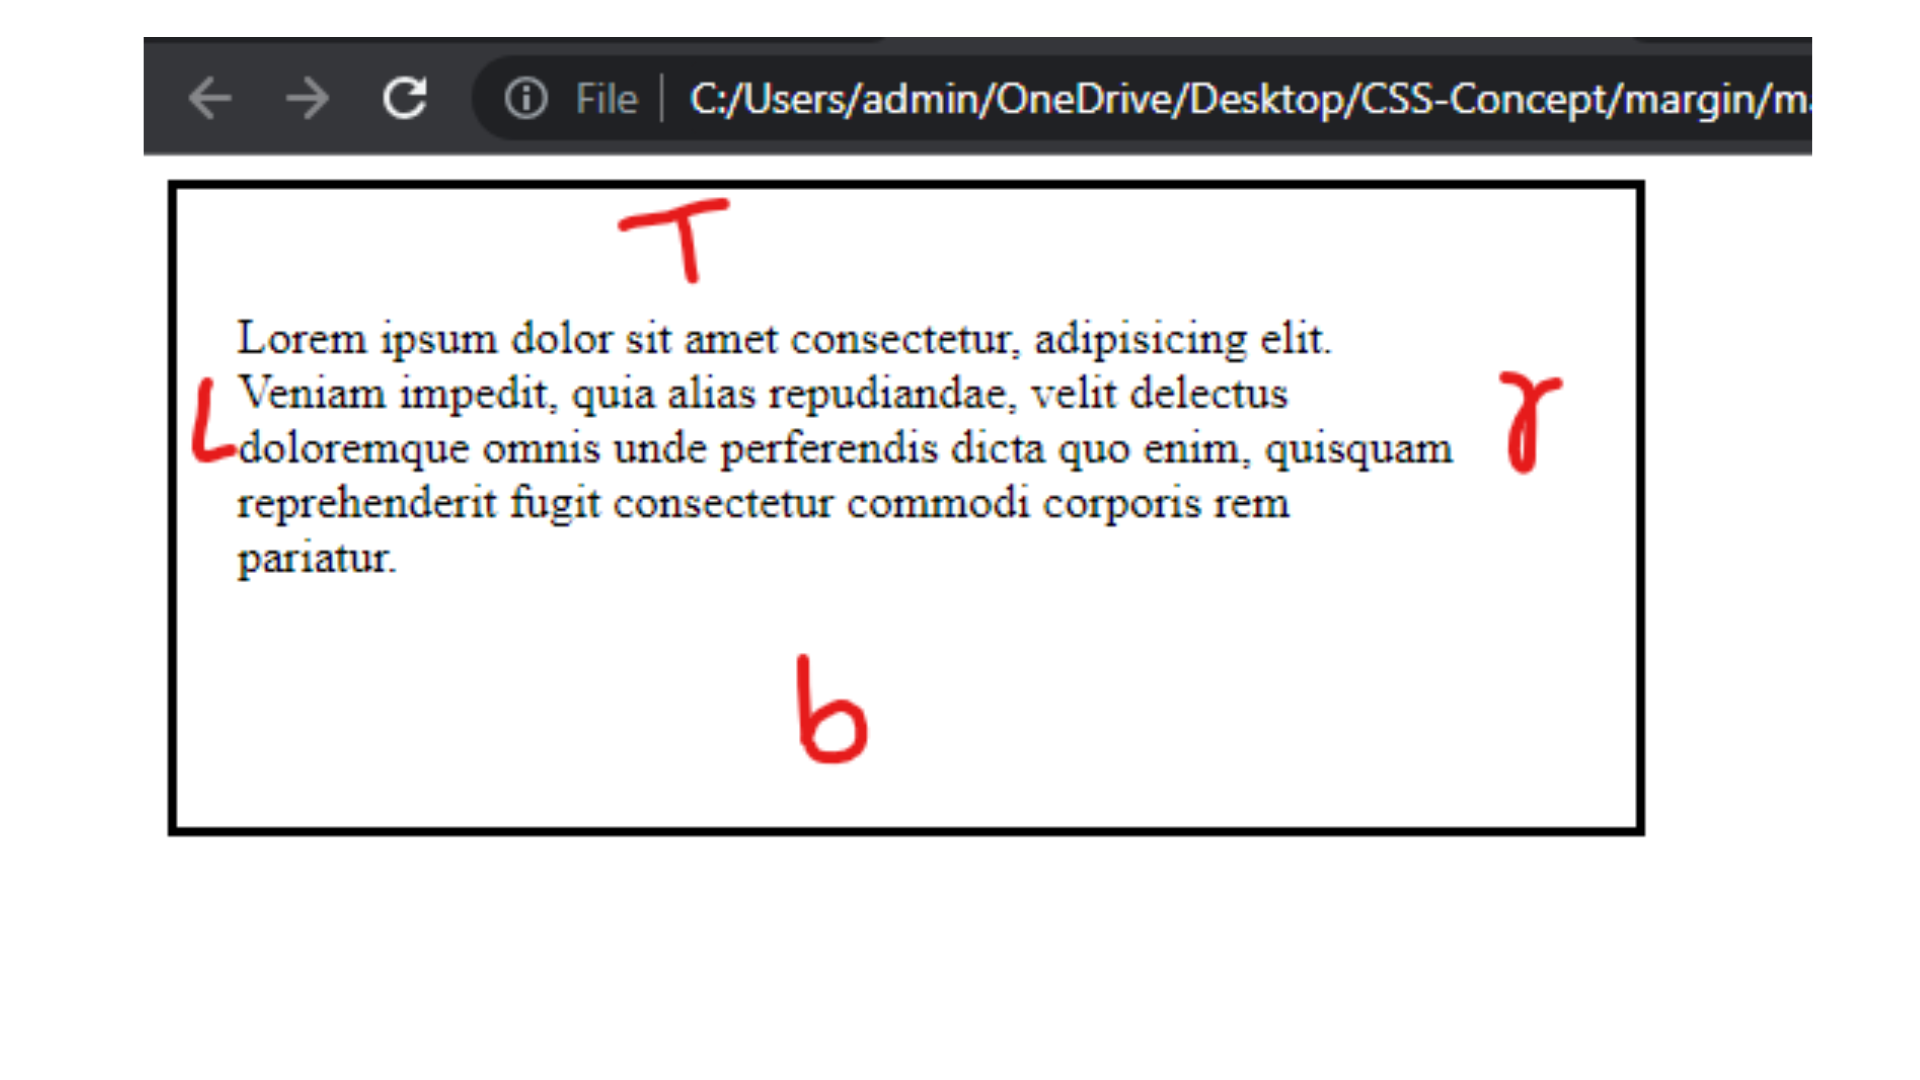
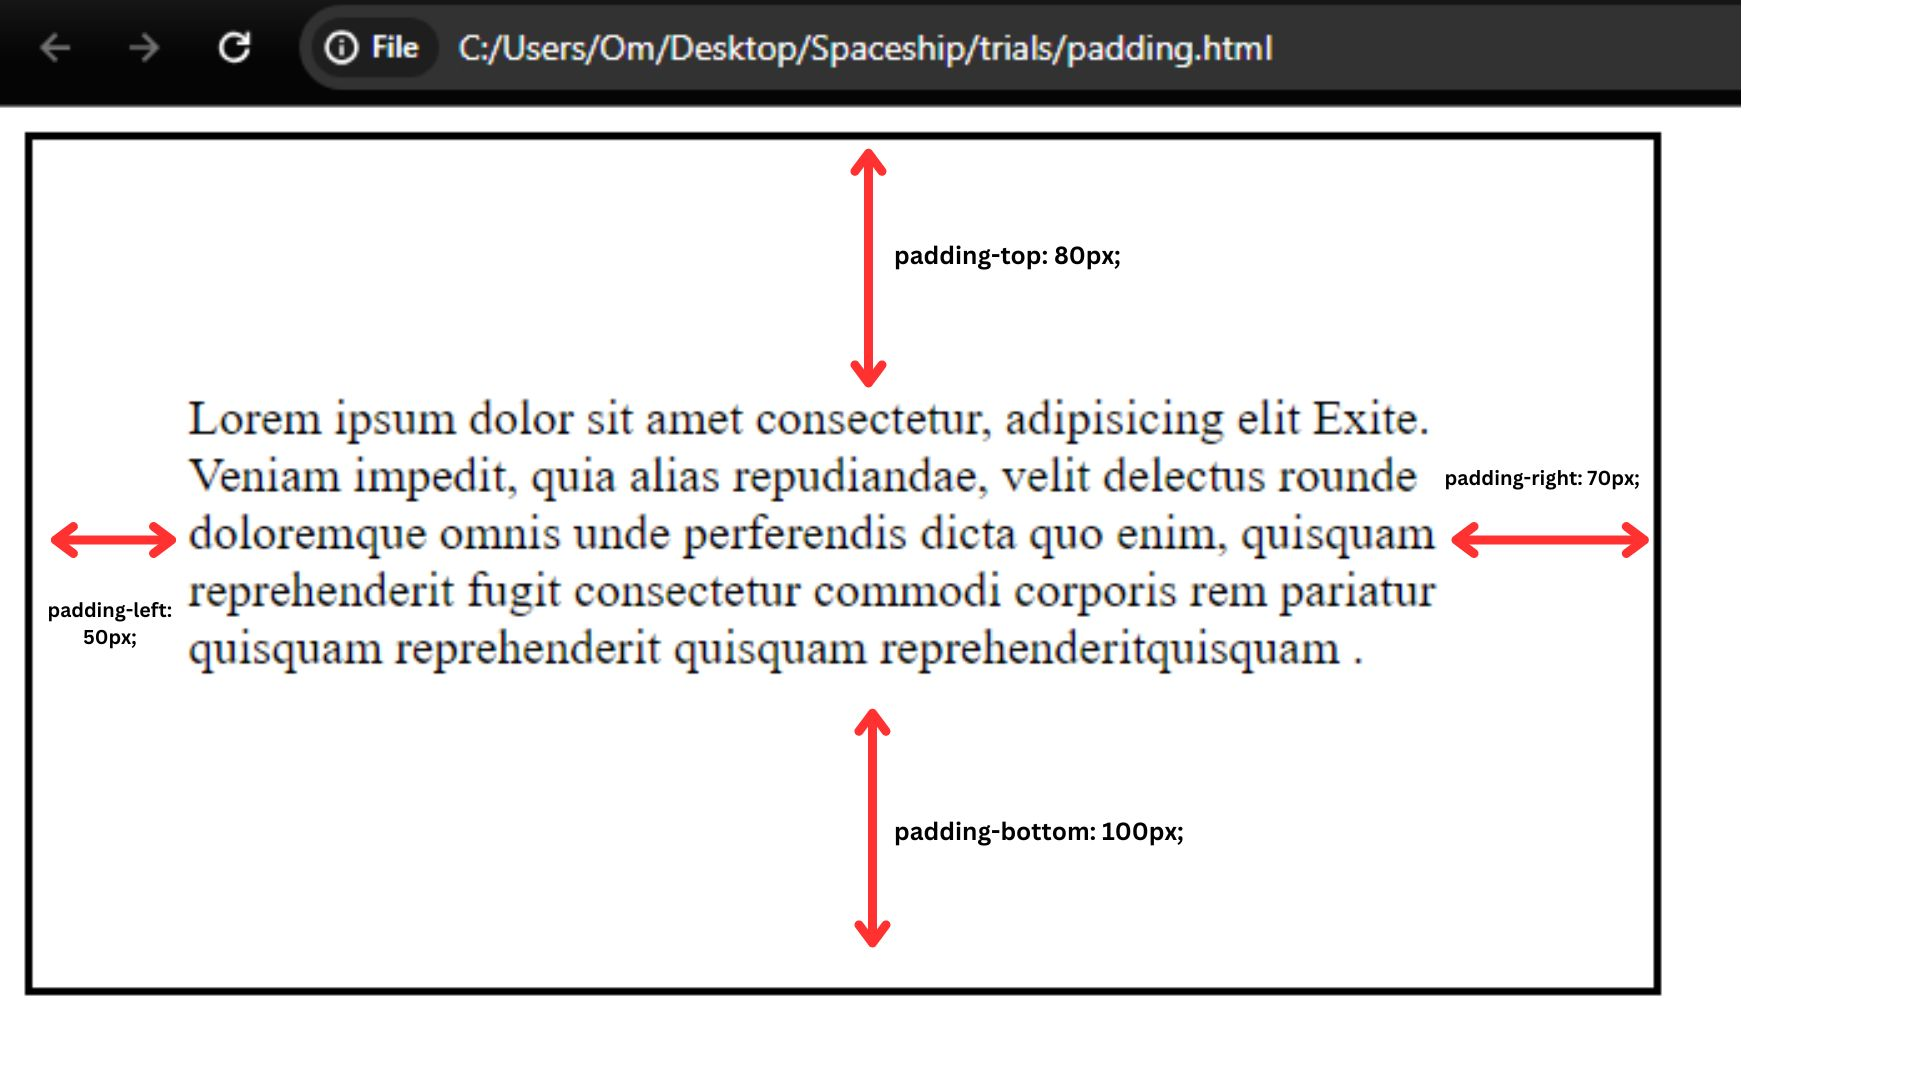
doc : Changes in the css - padding

Changed region(s): [[0.0, 0.0, 0.9688, 0.9472]]

diff --git a/docs/css/04-padding/04-padding.md b/docs/css/04-padding/04-padding.md
@@ -4,10 +4,6 @@ description: "Padding"
 hide_table_of_contents: true
 ---
 
-## Box-Model
-
-The CSS Box Model is a fundamental concept that describes how elements on a webpage are rendered and how their dimensions are calculated. It consists of four layers: `content`, `padding`, `margin`, and `border`. In this guide, we'll explore the concepts of `padding` and `margin`, and provide examples to illustrate their usage.
-
 ### Padding
 
 Padding refers to the space between an element's content and its border. It creates space within the element, inside any defined borders. The CSS properties used to control padding are:
@@ -32,20 +28,21 @@ Here's an example of how padding can be applied to an element:
     <style>
       .box {
         border: 3px solid black;
-        padding-left: 20px;
-        padding-top: 40px;
-        padding-right: 60px;
-        padding-bottom: 80px;
+        padding-left: 50px;
+        padding-top: 80px;
+        padding-right: 70px;
+        padding-bottom: 100px;
         width: 400px;
       }
     </style>
   </head>
   <body>
     <div class="box">
-      Lorem ipsum dolor sit amet consectetur, adipisicing elit. Veniam impedit,
-      quia alias repudiandae, velit delectus doloremque omnis unde perferendis
-      dicta quo enim, quisquam reprehenderit fugit consectetur commodi corporis
-      rem pariatur.
+      Lorem ipsum dolor sit amet consectetur, adipisicing elit Exite. Veniam
+      impedit, quia alias repudiandae, velit delectus rounde doloremque omnis
+      unde perferendis dicta quo enim, quisquam reprehenderit fugit consectetur
+      commodi corporis rem pariatur quisquam reprehenderit quisquam
+      reprehenderitquisquam .
     </div>
   </body>
 </html>
@@ -83,6 +80,9 @@ Instead of specifying `padding` for each side individually, you can use the shor
 </html>
 ```
 
+**Concept**
+<img src="/css/04/output-2-1.png" alt="output-2-1" width="600px"/>
+
 **Output**
 <img src="/css/04/output-2.png" alt="output-2" width="600px"/>
 
@@ -97,7 +97,6 @@ Instead of specifying `padding` for each side individually, you can use the shor
       .btn {
         background-color: pink;
         border: 3px solid black;
-        border-radius: 30px 0 30px 0;
         padding: 20px 40px;
       }
     </style>
